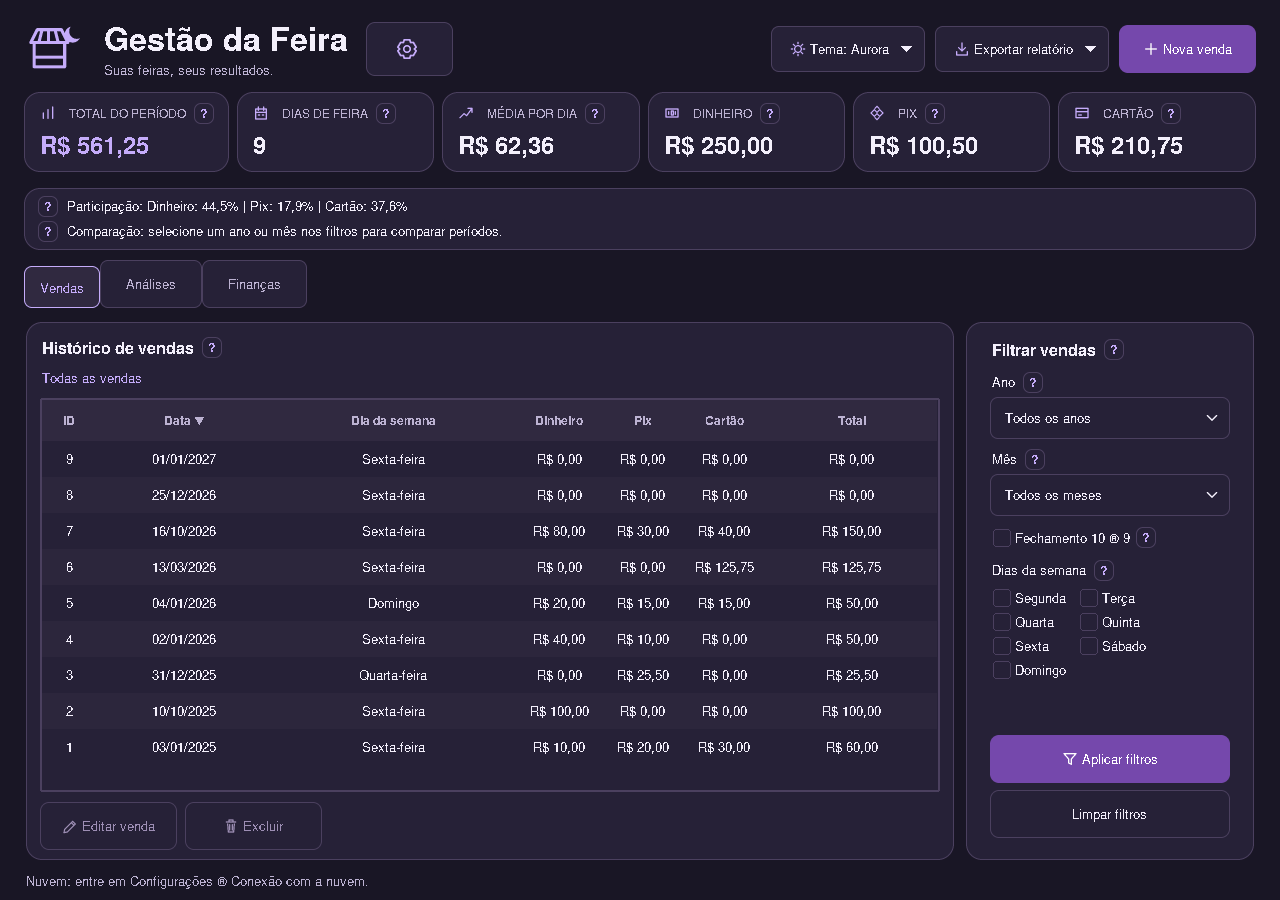
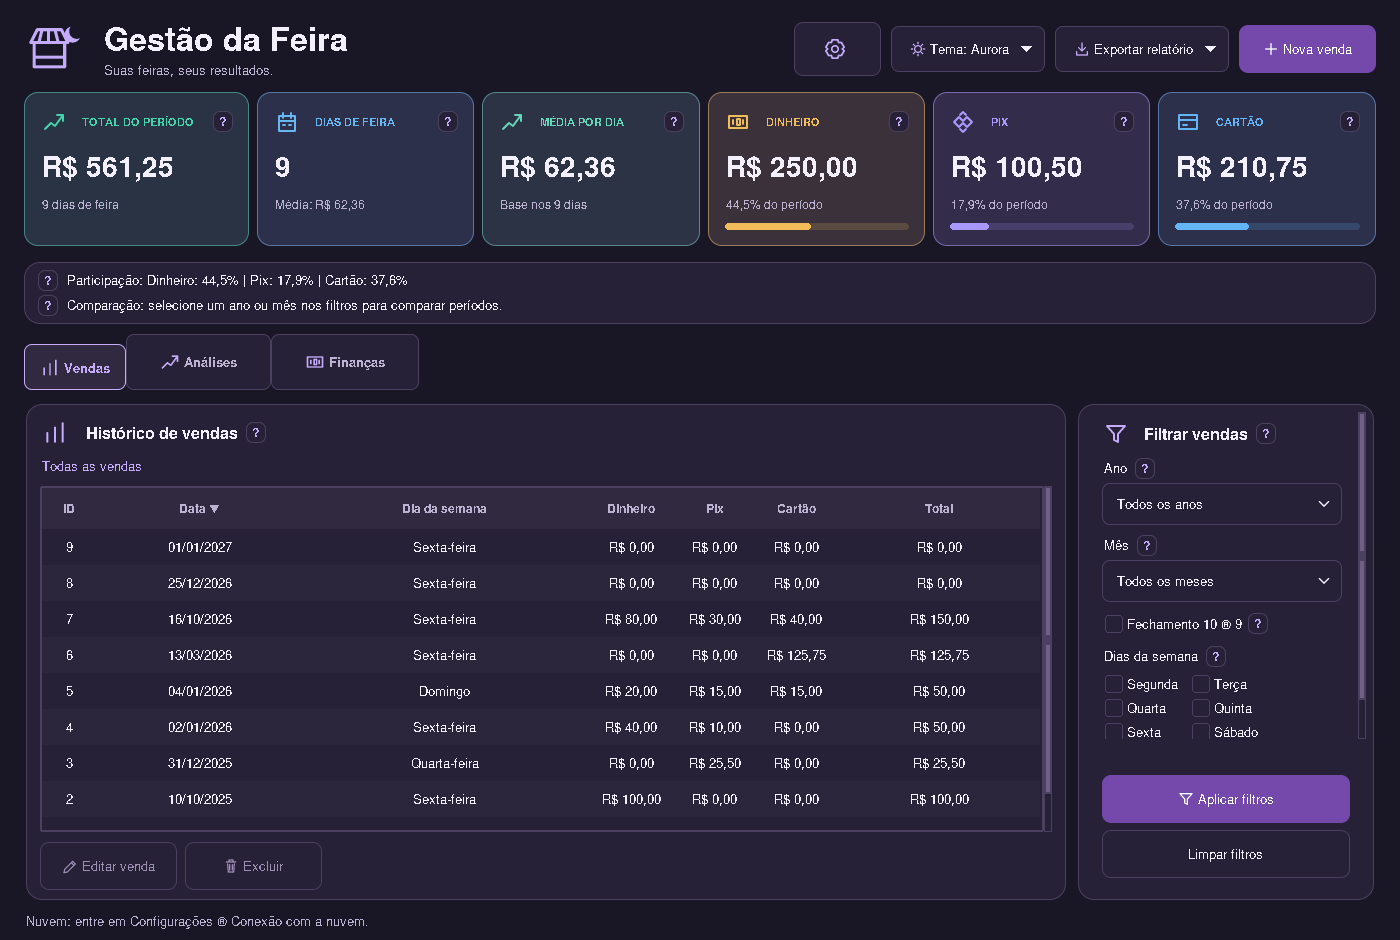
Mostra prévias do acabamento baseado na referência visual

diff --git a/previas-temas/README.md b/previas-temas/README.md
@@ -2,7 +2,7 @@
 
 Interface real com dados fictícios. Apenas imagens nesta branch; o código em main não foi alterado.
 
-A tabela agora ocupa a área do histórico. Barras de rolagem aparecem apenas quando há conteúdo fora da área visível, com trilhos discretos e sem setas. Areia agora é escuro; Aurora é a nova opção violeta.
+Nova proposta baseada na referência: cartões com cores por indicador, ícones maiores, contexto abaixo dos valores, barras arredondadas de participação, ícones nas abas e cabeçalho reorganizado. Tabela e filtros preservam as funções atuais. Busca, paginação e ações por linha da imagem de referência não foram acrescentadas nesta etapa visual. Capturas em 1400 × 940, com dados fictícios.
 
 ## Noite
 
